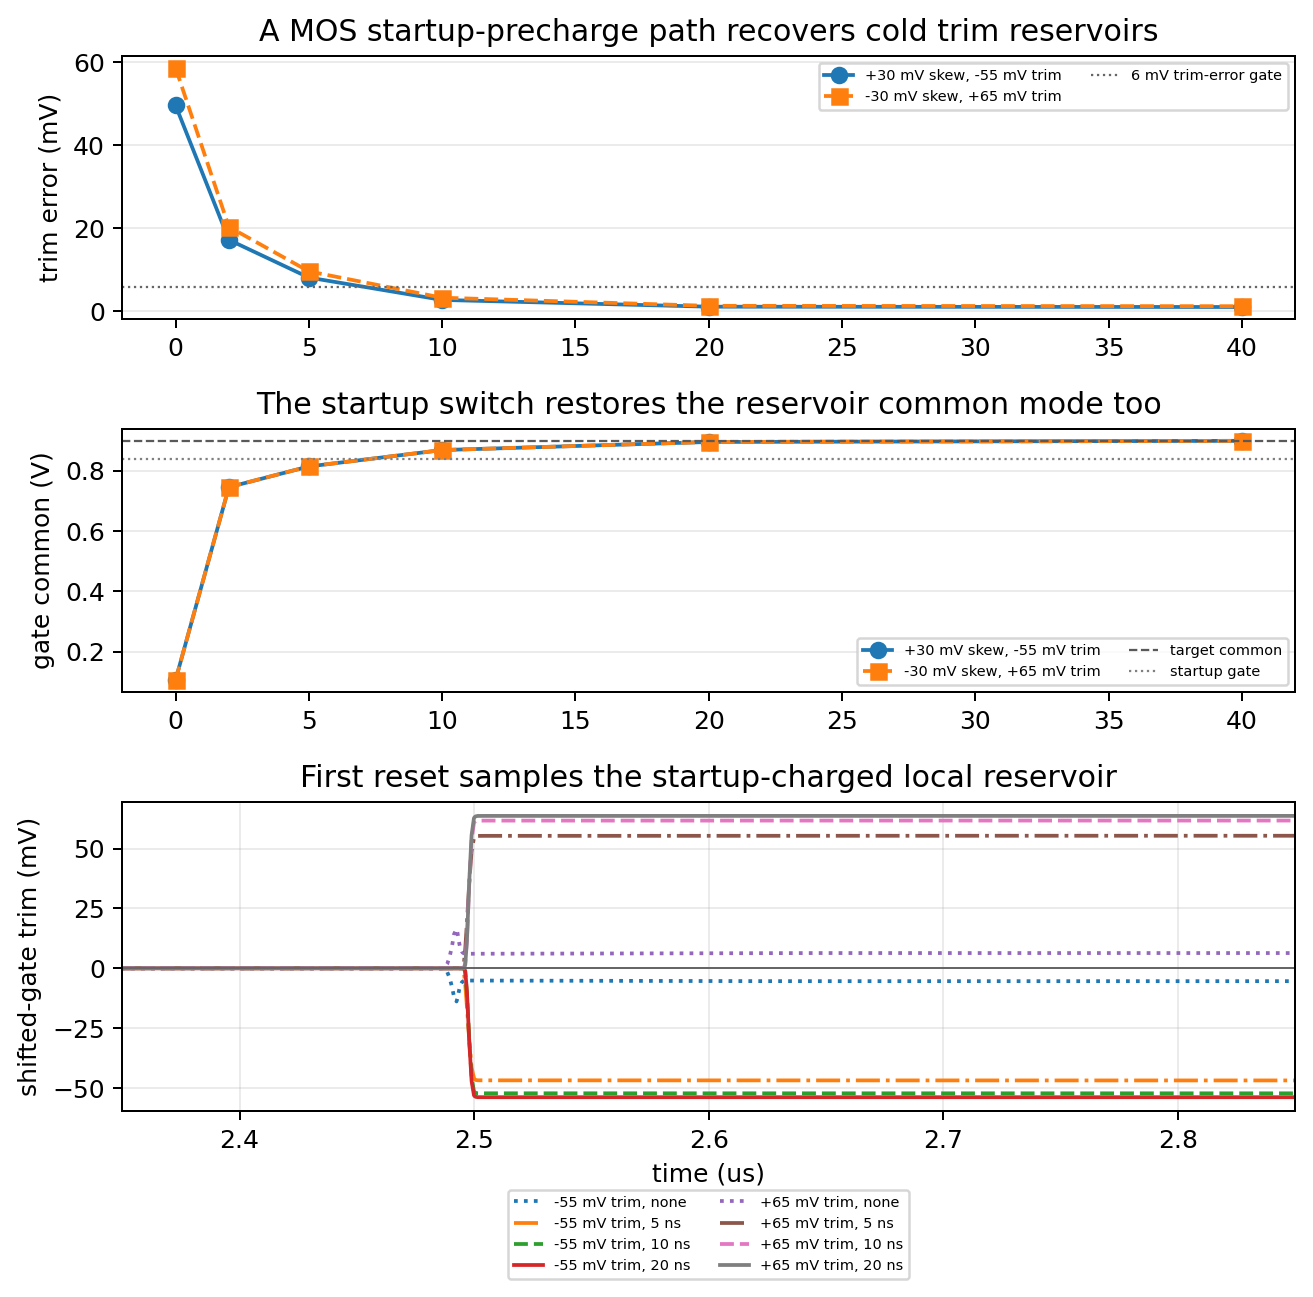
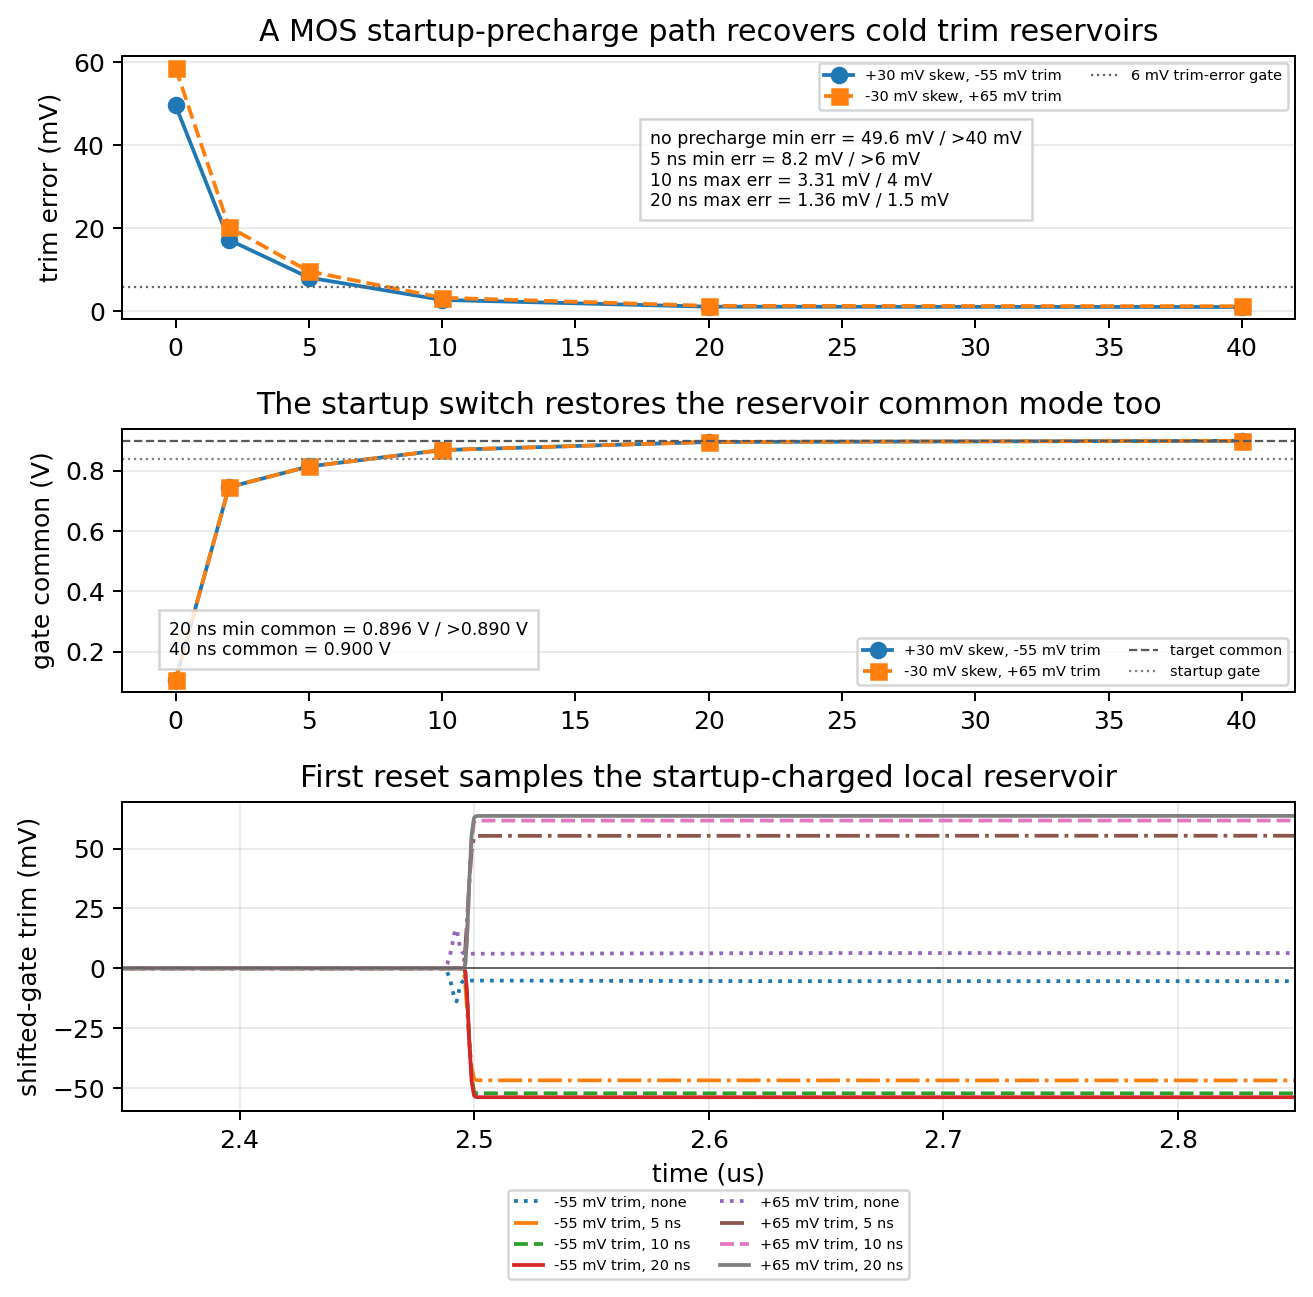
Annotate reset reference startup precharge

Changed region(s): [[0.4684, 0.0925, 0.7807, 0.185], [0.1249, 0.4626, 0.4059, 0.5243]]

diff --git a/spice/run_mos_cell_characterization.py b/spice/run_mos_cell_characterization.py
@@ -15150,6 +15150,21 @@ quit
     shift_refz_precharge_axes[0].set_ylabel("trim error (mV)")
     shift_refz_precharge_axes[0].set_title("A MOS startup-precharge path recovers cold trim reservoirs")
     shift_refz_precharge_axes[0].grid(True, axis="y", alpha=0.25)
+    shift_refz_precharge_axes[0].text(
+        0.45,
+        0.43,
+        "no precharge min err = "
+        f"{1e3 * np.min(shift_refz_precharge_trim_error[:, pre_none_idx]):.1f} mV / >40 mV\n"
+        "5 ns min err = "
+        f"{1e3 * np.min(shift_refz_precharge_trim_error[:, pre_5ns_idx]):.1f} mV / >6 mV\n"
+        "10 ns max err = "
+        f"{1e3 * np.max(shift_refz_precharge_trim_error[:, pre_10ns_idx]):.2f} mV / 4 mV\n"
+        "20 ns max err = "
+        f"{1e3 * np.max(shift_refz_precharge_trim_error[:, pre_20ns_idx]):.2f} mV / 1.5 mV",
+        transform=shift_refz_precharge_axes[0].transAxes,
+        fontsize="x-small",
+        bbox={"facecolor": "white", "alpha": 0.82, "edgecolor": "0.8"},
+    )
     shift_refz_precharge_axes[0].legend(loc="upper right", ncol=2, fontsize="xx-small")
     for branch_idx, (_branch_name, branch_label, _nfp, _nfm, _trim) in enumerate(shift_reset_branch_specs):
         marker = "o-" if branch_idx == 0 else "s--"
@@ -15164,6 +15179,17 @@ quit
     shift_refz_precharge_axes[1].set_ylabel("gate common (V)")
     shift_refz_precharge_axes[1].set_title("The startup switch restores the reservoir common mode too")
     shift_refz_precharge_axes[1].grid(True, axis="y", alpha=0.25)
+    shift_refz_precharge_axes[1].text(
+        0.04,
+        0.14,
+        "20 ns min common = "
+        f"{np.min(shift_refz_precharge_gate_common[:, pre_20ns_idx]):.3f} V / >0.890 V\n"
+        "40 ns common = "
+        f"{np.mean(shift_refz_precharge_gate_common[:, -1]):.3f} V",
+        transform=shift_refz_precharge_axes[1].transAxes,
+        fontsize="x-small",
+        bbox={"facecolor": "white", "alpha": 0.82, "edgecolor": "0.8"},
+    )
     shift_refz_precharge_axes[1].legend(loc="lower right", ncol=2, fontsize="xx-small")
     for branch_label, case_label, pct, _ref_diff, gate_diff, _gate_common in shift_refz_precharge_traces:
         if case_label == "none":

diff --git a/engineering_log.md b/engineering_log.md
@@ -2,6 +2,18 @@
 
 ## 2026-05-25
 
+- Clarified the shifted-gate reset-reference startup-precharge plot.  The
+  ngspice deck sweeps explicit precharge pulse width for cold local
+  trim-reference reservoirs and already asserted that no precharge remains
+  visibly wrong, a \(5\) ns pulse is still marginal, \(10\) ns recovers below
+  the \(4\) mV trim-error gate, and \(20\) ns restores both trim and common
+  mode.  The regenerated
+  `mos_hidden_writer_restored_gate_hybrid_update_forward_guard_forward_pair_96u_shifted_gate_reset_ref_precharge_ngspice`
+  plot now labels those measured margins: no-precharge minimum trim error
+  \(49.6\) mV, \(5\) ns minimum trim error \(8.2\) mV, \(10\) ns maximum
+  trim error \(3.31\) mV, \(20\) ns maximum trim error \(1.36\) mV,
+  \(20\) ns minimum common mode \(0.896\) V, and \(40\) ns common mode
+  \(0.900\) V.
 - Clarified the shifted-gate reset-reference startup reservoir plot.  The
   ngspice deck models cold \(250\) pF local trim-reference reservoirs behind
   \(100\)k sources and already asserted that cold reservoirs visibly
